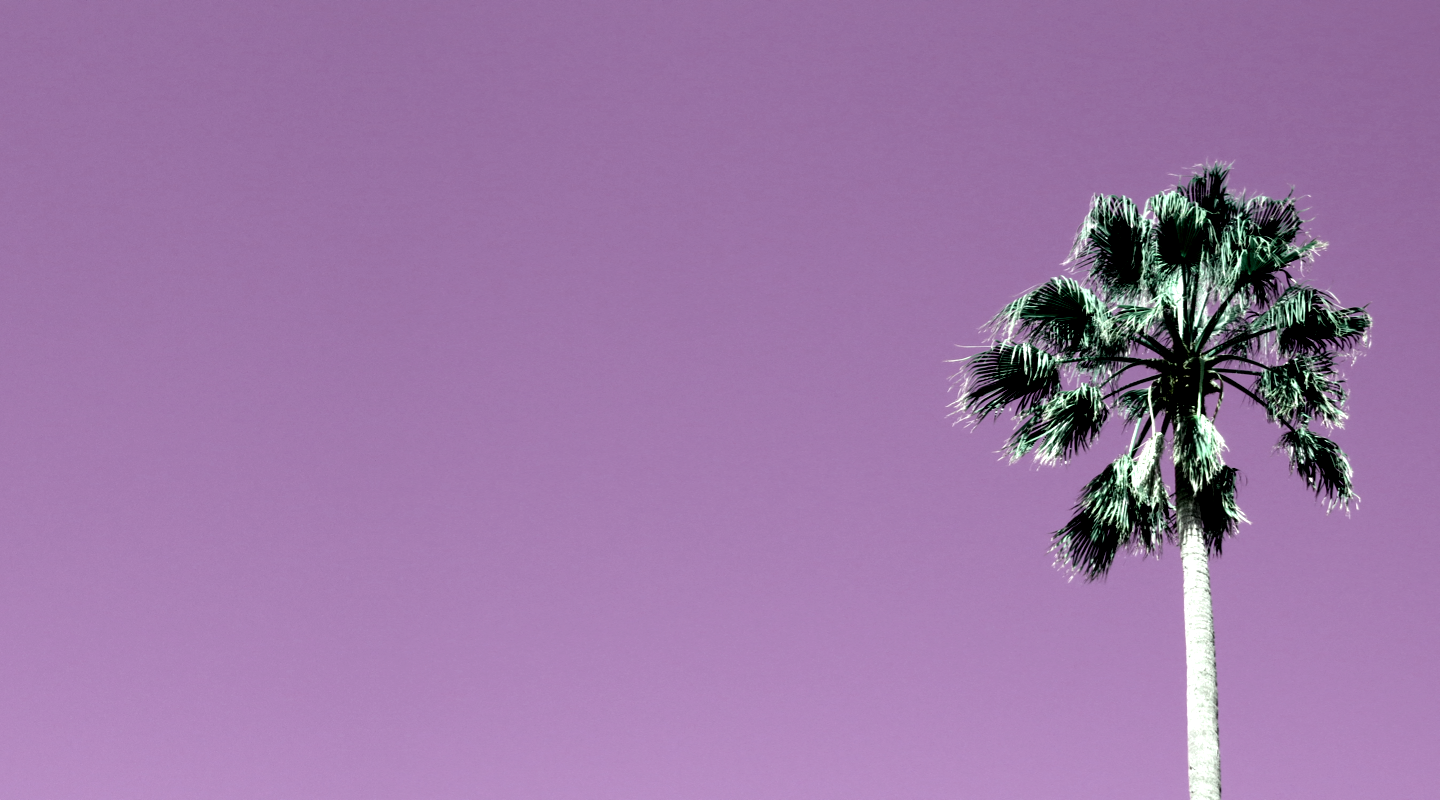
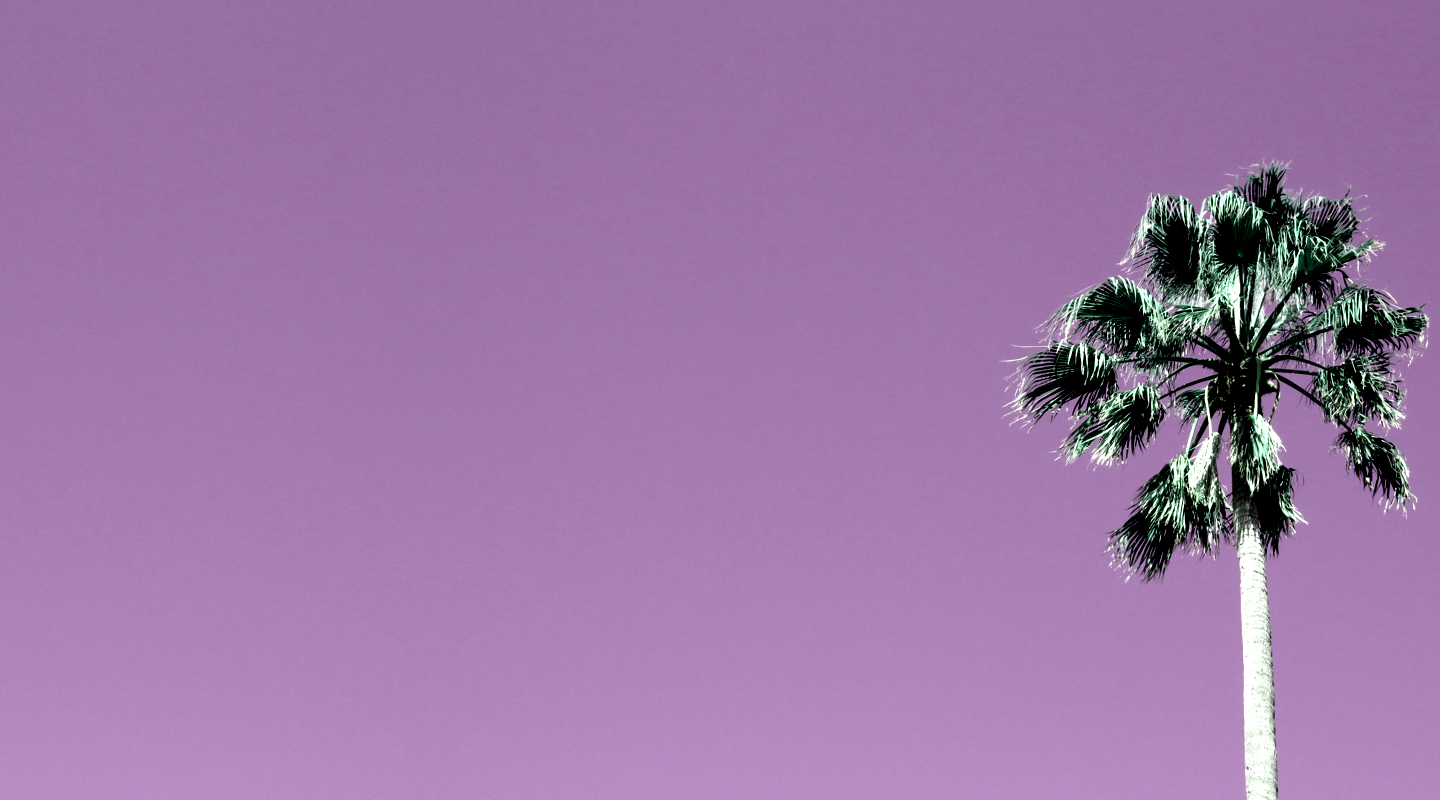
tablet styling

Changed region(s): [[0.6562, 0.1875, 1.0, 1.0]]

diff --git a/app/assets/stylesheets/static.scss b/app/assets/stylesheets/static.scss
@@ -47,6 +47,16 @@
       margin-top: 30px;
     }
   }
+
+  // Tablet Portrait
+  @media only screen
+  and (min-device-width: 768px)
+  and (max-device-width: 1024px)
+  and (orientation: portrait)
+  and (-webkit-min-device-pixel-ratio: 1) {
+    background-image: url("mobile-hero.png");
+  }
+
 }
 
 
@@ -75,7 +85,7 @@
     background-image: url("contact.png");
     background-repeat: no-repeat;
     background-size: cover;
-    background-position: bottom left;
+    background-position: bottom right;
     img {
       display: block;
       margin-top: 5vh;
@@ -86,12 +96,34 @@
   // Mobile
   @media screen and (max-width:767px) {
     padding: 15vh 1vh;
-    background: #8d799a;
+    background-color: #8d799a;
     img {
       display: block;
       margin: 2vh auto;
       width: 25px;
     }
+  }
+
+  // Mobile Portrait
+  @media only screen
+  and (min-device-width : 375px)
+  and (max-device-width : 667px)
+  and (orientation : portrait) {
+    background-image: url("contact-mobile.png");
+    background-repeat: no-repeat;
+    background-size: cover;
+    background-position: bottom right;
+  }
+
+  // Tablet Portrait
+  @media only screen
+  and (min-device-width: 768px)
+  and (max-device-width: 1024px)
+  and (-webkit-min-device-pixel-ratio: 1) {
+    background-image: url("contact-mobile.png");
+    background-repeat: no-repeat;
+    background-size: cover;
+    background-position: bottom right;
   }
 
 }
@@ -112,6 +144,15 @@
       display: block;
       margin: auto;
     }
+  }
+
+  // Tablet Portrait
+  @media only screen
+  and (min-device-width: 768px)
+  and (max-device-width: 1024px)
+  and (orientation: portrait)
+  and (-webkit-min-device-pixel-ratio: 1) {
+    padding: 5vh 10vw;
   }
 }
 
